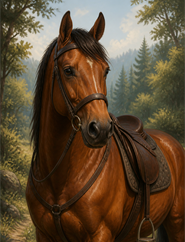
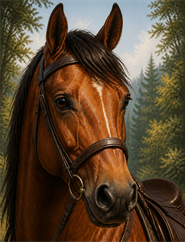
feat: finish Phase 3D horse presentation

diff --git a/tests/MountedRiderPoseTests.cs b/tests/MountedRiderPoseTests.cs
@@ -253,7 +253,7 @@ namespace KingmakerMountedCombat.Tests
             var profile = MountedRiderPoseProfiles.MediumHumanoidOnHorse;
             TestRunner.Equal(null, profile.Validate(), "Horse pose profile is invalid.");
             TestRunner.Equal("medium-humanoid-horse-v1", profile.Id, "Horse profile identity changed.");
-            TestRunner.Equal(-0.17f, profile.PelvisPositionOffset.Y, "Horse pelvis calibration changed.");
+            TestRunner.Equal(-0.29f, profile.PelvisPositionOffset.Y, "Horse final Phase 3D pelvis calibration changed.");
             TestRunner.Equal(-0.15f, profile.LeftLeg.FootTargetFromThigh.X, "Horse left thigh-relative stirrup target changed.");
             TestRunner.Equal(0.15f, profile.RightLeg.FootTargetFromThigh.X, "Horse right thigh-relative stirrup target changed.");
             TestRunner.Equal(-0.62f, profile.LeftLeg.FootTargetFromThigh.Y, "Horse left foot height target changed.");
@@ -268,6 +268,12 @@ namespace KingmakerMountedCombat.Tests
                 profile.LeftLeg.FootTargetFromThigh.Z != MountedRiderPoseProfiles.MediumHumanoidOnMammoth.LeftLeg.FootTargetFromThigh.Z &&
                 profile.LeftLeg.KneeHintFromThigh.Z != MountedRiderPoseProfiles.MediumHumanoidOnMammoth.LeftLeg.KneeHintFromThigh.Z,
                 "Horse pose reused Mammoth longitudinal leg values.");
+            var mammoth = MountedRiderPoseProfiles.MediumHumanoidOnMammoth;
+            TestRunner.Equal(0.04f, mammoth.PelvisPositionOffset.Y, "Horse calibration mutated the accepted Mammoth pelvis height.");
+            TestRunner.Equal(-0.50f, mammoth.LeftLeg.FootTargetFromThigh.Y, "Horse calibration mutated the accepted Mammoth left foot target.");
+            TestRunner.Equal(-0.50f, mammoth.RightLeg.FootTargetFromThigh.Y, "Horse calibration mutated the accepted Mammoth right foot target.");
+            TestRunner.Equal(-0.08f, mammoth.LeftLeg.KneeHintFromThigh.Y, "Horse calibration mutated the accepted Mammoth left knee target.");
+            TestRunner.Equal(-0.08f, mammoth.RightLeg.KneeHintFromThigh.Y, "Horse calibration mutated the accepted Mammoth right knee target.");
         }
 
         private static void ProfileRejectsDuplicateBones()

diff --git a/src/KingmakerMountedCombat/Integration/NativeMountedControlService.cs b/src/KingmakerMountedCombat/Integration/NativeMountedControlService.cs
@@ -571,10 +571,15 @@ namespace KingmakerMountedCombat.Integration
                 AssertGuidAbsent(library, guid);
             }
 
-            var icon = horseCompanion.HorseFeature.Icon;
-            if (icon == null)
+            var horseIcon = horseCompanion.HorseFeature.Icon;
+            var saddleIcon = horseCompanion.MountSaddleIcon;
+            if (horseIcon == null)
             {
                 throw new InvalidOperationException("The exact Horse feature has no icon for native controls.");
+            }
+            if (saddleIcon == null)
+            {
+                throw new InvalidOperationException("The original KMC saddle icon is unavailable for Mount/Dismount controls.");
             }
 
             mountAbility = CreateAbility(
@@ -588,7 +593,7 @@ namespace KingmakerMountedCombat.Integration
                 true,
                 false,
                 UnitCommand.CommandType.Move,
-                icon);
+                saddleIcon);
             dismountAbility = CreateAbility(
                 "KMC_DismountAbility",
                 DismountAbilityGuid,
@@ -600,7 +605,7 @@ namespace KingmakerMountedCombat.Integration
                 false,
                 true,
                 UnitCommand.CommandType.Move,
-                icon);
+                saddleIcon);
             riderPrimaryAbility = CreateAbility(
                 "KMC_RiderPrimaryAbility",
                 RiderPrimaryAbilityGuid,
@@ -612,7 +617,7 @@ namespace KingmakerMountedCombat.Integration
                 false,
                 false,
                 UnitCommand.CommandType.Free,
-                icon);
+                horseIcon);
             mountPrimaryAbility = CreateAbility(
                 "KMC_MountPrimaryAbility",
                 MountPrimaryAbilityGuid,
@@ -624,7 +629,7 @@ namespace KingmakerMountedCombat.Integration
                 false,
                 false,
                 UnitCommand.CommandType.Free,
-                icon);
+                horseIcon);
 
             foreach (var ability in EnumerateBlueprints())
             {

diff --git a/src/KingmakerMountedCombat/Domain/MountedRiderPoseProfile.cs b/src/KingmakerMountedCombat/Domain/MountedRiderPoseProfile.cs
@@ -156,7 +156,14 @@ namespace KingmakerMountedCombat.Domain
         // target is a delta from each thigh rather than an absolute Chest-local
         // coordinate. The narrower lateral deltas therefore account for the
         // rider's existing hip span instead of adding that span to the stirrup
-        // span. The pelvis is lowered 0.14 from the human-reviewed dev.23 value.
+        // span. Phase 3C Candidate C was lowered 0.14 from the human-reviewed
+        // dev.23 value but still showed a visible saddle gap. Phase 3D bounded
+        // the final vertical-only comparison to -0.25, -0.27, and -0.29 in this
+        // exact pelvis-local coordinate space (current minus 0.08/0.10/0.12).
+        // The -0.29 candidate deliberately favors saddle contact over the
+        // Phase 3C suspended silhouette. The complete rider leg chain follows
+        // the pelvis translation, so the already stable Horse-only stirrup,
+        // knee, bend, and longitudinal targets remain unchanged.
         // Candidate A proved stable but left the feet 0.557/0.598 world units
         // above and behind the assigned native stirrups. Candidate B was stable
         // and materially improved the human silhouette but remained slightly
@@ -167,7 +174,7 @@ namespace KingmakerMountedCombat.Domain
         public static readonly MountedRiderPoseProfile MediumHumanoidOnHorse = new MountedRiderPoseProfile(
             "medium-humanoid-horse-v1",
             "Pelvis",
-            new PoseVector3(0f, -0.17f, -0.02f),
+            new PoseVector3(0f, -0.29f, -0.02f),
             new PoseVector3(5f, 0f, 0f),
             new MountedRiderLegPoseProfile(
                 "L_Up_leg",

diff --git a/src/KingmakerMountedCombat/Integration/HorseCompanionBlueprintService.cs b/src/KingmakerMountedCombat/Integration/HorseCompanionBlueprintService.cs
@@ -111,6 +111,7 @@ namespace KingmakerMountedCombat.Integration
         private bool selectionDesired;
         private BlueprintPortrait horsePortrait;
         private Sprite horseIcon;
+        private Sprite mountSaddleIcon;
         private BlueprintUnit horseUnit;
         private BlueprintFeature horseFeature;
         private BlueprintFeature horseUpgrade;
@@ -144,6 +145,8 @@ namespace KingmakerMountedCombat.Integration
         public BlueprintPortrait HorsePortrait => horsePortrait;
 
         public Sprite HorseIcon => horseIcon;
+
+        public Sprite MountSaddleIcon => mountSaddleIcon;
 
         public BlueprintFeature HorseFeature => horseFeature;
 
@@ -386,6 +389,9 @@ namespace KingmakerMountedCombat.Integration
             horseIcon = CreateEmbeddedSprite(
                 "KingmakerMountedCombat.Assets.HorseIcon.png",
                 "KMC_Horse_Icon");
+            mountSaddleIcon = CreateEmbeddedSprite(
+                "KingmakerMountedCombat.Assets.MountSaddleIcon.png",
+                "KMC_Mount_Saddle_Icon");
 
             horseUpgrade = CreateOwned<BlueprintFeature>("AnimalCompanionUpgradeHorse");
             horseUpgrade.AssetGuid = UpgradeGuid;
@@ -861,6 +867,7 @@ namespace KingmakerMountedCombat.Integration
             horseUnit = null;
             horsePortrait = null;
             horseIcon = null;
+            mountSaddleIcon = null;
             horseFeature = null;
             horseUpgrade = null;
             rangerSelection = null;

diff --git a/MOUNTED-COMBAT-JOURNAL.md b/MOUNTED-COMBAT-JOURNAL.md
@@ -1,5 +1,17 @@
 # Mounted Combat journal
 
+## 2026-08-30T21:21:46Z - Phase 3D presentation tranche is offline-green
+
+- Branch/HEAD before checkpoint: `codex/mounted-combat-phase3d-unified-combat` / `9bf83d21b5367e057130b41bf7379512a638c025`; this original-art/presentation tranche and record are uncommitted. Phase 3C assets, package, branch, and evidence remain immutable.
+- Exact read-only installed-data audit found zero standalone `saddle`/`tack` filenames and zero such terms across every Kingmaker bundle manifest. No stable native resource path/GUID/owner could be established, so KMC selected the authorized original-art fallback without extracting a proprietary texture.
[2 lines of base64/hex data omitted]
+- The one final Horse-only vertical cycle bounded pelvis-local candidates to `-0.25`, `-0.27`, and `-0.29` from Phase 3C `-0.17`. Selected `-0.29` is the requested substantive `-0.12` lowering at the rider Pelvis under the exact Chest/root attachment. Horse lateral/longitudinal leg targets, anchor, rotation, scale, and animation remain unchanged. Mammoth values are unchanged and explicitly component-locked.
[1 lines of base64/hex data omitted]
+- One harness attempt failed solely because the new source assertion referenced an uninitialized local test variable. The assertion was bound inside the correct test scope and the complete harness rerun passed `236/0`; no production repair or acceptance threshold changed.
+- Rejected claims: bitmap inspection and offline pose constants do not prove in-game bar/tracker legibility, saddle contact, clipping, gait stability, or Mammoth behavior. Those remain runtime/manual gates.
+- External state: no Kingmaker/Wrath launch, save access, live Mods staging, installed-package change, runtime transaction, or remote publication. Exact next action is the strict Phase 3D runtime artifact/schema/engine plus grouped RT/TB/presentation/Mammoth scenarios.
+
 ## 2026-08-30T20:46:46Z - Phase 3D unified combat primary implementation is offline-green
 
 - Branch/HEAD before checkpoint: `codex/mounted-combat-phase3d-unified-combat` / `2d7fa364b3e9418c7069bd6e251d15e006444ecf`; implementation and this record are uncommitted. Phase 3C historical refs/artifacts remain immutable.

diff --git a/planning/MOUNT-ICON-ASSET-AUDIT.md b/planning/MOUNT-ICON-ASSET-AUDIT.md
@@ -1,0 +1,31 @@
+# Mount icon asset audit
+
+Status: `PASS (original fallback selected) - RUNTIME/UI HUMAN REVIEW REQUIRED`
+
+Date: 2026-08-30
+
+## Native Kingmaker audit
+
+The exact installed Kingmaker data remains a read-only evidence source. Before creating replacement art, two bounded discoverability scans were run against `Kingmaker_Data/StreamingAssets/Bundles`:
+
+1. a filename/path scan for standalone `saddle` or `tack` terms;
+2. a manifest-text scan for the same terms across every `*.manifest` file.
+
+Both scans returned zero matches. The earlier initialized-library Horse asset audit inspected 104,667 blueprint objects and likewise recorded no suitable native Horse/Pony portrait or Horse-identity icon set. That earlier artifact did not claim an exhaustive saddle search, so Phase 3D will add a runtime blueprint/icon-name projection before final qualification. The zero manifest/path result is nevertheless dispositive for the immediate asset choice: no native saddle/tack icon has a discoverable resource path, blueprint owner, or stable GUID that KMC can reference safely. An opaque or unrelated icon is not accepted by resemblance alone, and no proprietary texture is extracted or redistributed.
+
+## Disposition
+
+KMC uses original saddle artwork. The Mount and Dismount abilities use the saddle icon; the Horse companion feature and Rider/Horse primary controls retain the accepted Horse identity icon. This keeps action semantics distinct from companion identity.
+
+The saddle artwork was generated from text only with OpenAI ImageGen for this project. No Kingmaker, Wrath, YouTube, screenshot, logo, or third-party image was supplied as an image reference. The source prompt was:
+
+> Create a brand-new original square bitmap asset for the Kingmaker Mounted Combat mod: a medieval riding saddle and tack ability icon, viewed in clear three-quarter profile. Center one compact dark oxblood-brown leather saddle with a high pommel and cantle, one visible brass stirrup hanging below, short leather straps, and a small folded saddle blanket in muted deep red. Painterly late-medieval fantasy CRPG inventory-icon style, warm amber rim light, rich brown leather, aged brass, strong readable silhouette, crisp focal edges, restrained texture, dramatic but uncluttered dark umber vignette background. Designed to remain instantly recognizable at 48–64 pixels. No horse, no horse head, no rider, no human, no text, no letters, no logo, no watermark, no decorative UI frame, no copied game icon, no photorealism. Square 1:1 composition with generous breathing room around the saddle.
+
+## Project-owned files
+
+| File | Role | Dimensions | SHA-256 |
+|---|---|---:|---|
[2 lines of base64/hex data omitted]
+
+The 128x128 derivative is a high-quality bicubic reduction of the committed source. Both are original KMC-distributed assets; they contain no extracted proprietary pixels. Final ability-bar legibility remains a focused human gate.

diff --git a/AUTONOMOUS-RESUME.md b/AUTONOMOUS-RESUME.md
@@ -1,5 +1,17 @@
 # Autonomous resume
 
+## Phase 3D original art and final Horse seat calibration offline-green - 2026-08-30T21:21:46Z
+
+- Branch is `codex/mounted-combat-phase3d-unified-combat`; current committed implementation checkpoint is `9bf83d21b5367e057130b41bf7379512a638c025`, with this presentation tranche and records intentionally uncommitted until the coherent checkpoint below. Phase 3C historical refs/artifacts are untouched.
+- The exact installed bundle filename/manifest scan found no discoverable saddle/tack resource, so the original-art fallback is selected. `planning/MOUNT-ICON-ASSET-AUDIT.md` records the text-only ImageGen prompt, rights boundary, dimensions, and hashes. `MountSaddleIcon.png` is embedded separately and used only by Mount/Dismount; Horse identity/primary surfaces keep `HorseIcon.png`.
[1 lines of base64/hex data omitted]
+- The final Horse-only vertical cycle compared pelvis-local `Y=-0.25/-0.27/-0.29` against the Phase 3C human screenshot and exact Chest/stirrup coordinate contract. `Y=-0.29` is selected for fresh runtime/manual review. Foot/knee deltas, anchor, rotation, scale, Horse animation, and every Mammoth constant remain unchanged; tests lock the accepted Mammoth values.
[1 lines of base64/hex data omitted]
+- One intermediate harness failure was test-scope-only: the new icon segregation assertion referenced a variable initialized in a different harness closure. Binding the read inside the correct closure restored full `236/0`; production code did not change for that repair.
+- No game, save, live Mods tree, installed package, runtime transaction, or remote ref changed. Exact next action: commit this presentation checkpoint, then implement strict Phase 3D runtime schemas/validators/scenario engine before creating any gameplay package or claiming runtime credit.
+
+Status remains `IN PROGRESS`; icon/portrait/pose runtime and human gates are open.
+
 ## Phase 3D unified-combat primary implementation offline-green - 2026-08-30T20:46:46Z
 
 - Branch is `codex/mounted-combat-phase3d-unified-combat`; current committed contract checkpoint is `2d7fa364b3e9418c7069bd6e251d15e006444ecf`, with the reviewed primary implementation and tests intentionally uncommitted until this record/checkpoint. Phase 3C refs and accepted package remain untouched.

diff --git a/planning/HORSE-MOVEMENT-AND-ANIMATION-CONTRACT.md b/planning/HORSE-MOVEMENT-AND-ANIMATION-CONTRACT.md
@@ -44,3 +44,19 @@ The live Horse blueprint remains 50 feet and the exact agent maximum remains `5.
 Exact Horse Bite `35dfad6517f401145af54111be04d6cf` remains `AdditionalLimb[0]`. The final adapter follows the refreshed stock-created handle, validates exact Horse manager/action-set membership, and records `HorseAnimationSet_Bite` / `SpecialAttack`. TB and RT each produced one successful Horse-owned command and one attack/roll/damage chain. The handle acted, finished, and was not interrupted; create/adopt/reject totals after both actions were `0/2/0`. Visual readability remains a human gate.
 
 Candidate C is final for this bounded cycle: pelvis `(0,-0.17,-0.02)`, feet `(+/-0.15,-0.62,0.11)`, knees `(+/-0.16,-0.16,0.16)`. Left/right stirrup distances are `0.39243558` / `0.4600763`; clamps are zero; maximum foot/knee/segment residuals remain at microunit scale; maximum/average cost is `19.0` / `13.9` microseconds. Mammoth values, Horse scale/assets, and every other rider category are unchanged.
+
+## Phase 3D final seat-lowering cycle - 2026-08-30
+
+The Phase 3C human screenshot supersedes the earlier visual disposition: Candidate C is mechanically stable but the pelvis remains visibly suspended above the stock saddle. Phase 3D therefore authorizes exactly one final Horse-only vertical cycle. The coordinate seam is the rider `Pelvis.localPosition` inside the rider root leased at the native Horse `Chest`; the exact `L_Stirrup` and `R_Stirrup` remain authored children of that Chest at approximately `(+/-0.305183,-0.12273,-0.04402)`. This is not a blind mount-root translation.
+
+The bounded candidates are:
+
+| Candidate | Pelvis local offset | Delta from Phase 3C | Disposition |
+|---|---:|---:|---|
+| Phase3D-A | `(0,-0.25,-0.02)` | `-0.08 Y` | evidence boundary |
+| Phase3D-B | `(0,-0.27,-0.02)` | `-0.10 Y` | intermediate |
+| Phase3D-C | `(0,-0.29,-0.02)` | `-0.12 Y` | selected for runtime/manual review |
+
+Phase3D-C is selected because the authoritative screenshot shows material suspension and the user explicitly prioritizes seat contact over a small amount of clipping. The procedural pose applies the pelvis translation before resolving both thigh-root-relative leg chains, so the rider body and existing stable Horse-only foot/knee targets descend together. Lateral, longitudinal, bend, rotation, Horse scale, source anchor, and native animation values remain unchanged.
+
+The accepted Mammoth constants remain exactly pelvis `(0,0.04,-0.05)`, feet `(+/-0.32,-0.50,0.10)`, and knees `(+/-0.42,-0.08,0.42)`; component tests lock those values. Runtime idle/walk/run/turn/stop/reverse, clipping, jitter, stirrup distance, and Mammoth behavior still require fresh evidence. No additional pose candidate cycle is authorized after this one.

diff --git a/planning/HORSE-PORTRAIT-ASSET-AUDIT.md b/planning/HORSE-PORTRAIT-ASSET-AUDIT.md
@@ -47,3 +47,20 @@ KMC therefore uses an original project-owned, redistributable portrait set. It w
[1 lines of base64/hex data omitted]
 
 Registration and UX evidence prove exact KMC Horse portrait/icon identities and no Mammoth reference on Horse-specific surfaces. Human review remains responsible for composition, readability, and aesthetic acceptance.
+
+## Phase 3D small/party close-up - 2026-08-30
+
+Human Phase 3C review accepted the original Horse artwork but requested a tighter small/party crop. The large and medium portraits and `HorsePortraitOriginalMaster.png` remain byte-identical to the accepted Phase 3C set. Only the small surface changes.
+
+OpenAI ImageGen edited only the project-owned `HorsePortraitOriginalMaster.png`; no Kingmaker, Wrath, YouTube, or human-review screenshot was used as an image reference. The edit prompt required the same chestnut Horse identity, blaze, bridle, painterly treatment, light, and forest while reframing ears, face, eyes, muzzle, and upper neck for 48–64 pixel readability. It prohibited new tack, riders, text, logos, borders, and new objects. The generated close-up master was center-cropped to the exact native small-portrait aspect and reduced with high-quality bicubic sampling.
+
+| File | Dimensions | SHA-256 | Phase 3D disposition |
+|---|---:|---|---|
[6 lines of base64/hex data omitted]
+
+The close-up is an original KMC-distributed derivative of KMC's original source. Runtime party/tracker rendering and final aesthetic judgment remain focused human gates.

diff --git a/planning/PHASE3D-RUNTIME-SCENARIO-MATRIX.md b/planning/PHASE3D-RUNTIME-SCENARIO-MATRIX.md
@@ -82,12 +82,12 @@ Each mounted row records actual `ClickUnitHandler` admission, exact stock comman
 | Scenario | Required proof | Status |
 |---|---|---|
 | mounted-single-rider-turn-portrait | one rider tracker portrait, rider selection/action bar/camera | TODO |
-| Horse-small-portrait-close-up | original KMC art crop readable at party/tracker size | TODO |
-| saddle-icon | native safe reference or original KMC-owned saddle art; no Wrath asset | TODO |
+| Horse-small-portrait-close-up | original KMC art crop readable at party/tracker size | IN PROGRESS - original close-up integrated; runtime rendering/human legibility pending |
+| saddle-icon | native safe reference or original KMC-owned saddle art; no Wrath asset | IN PROGRESS - native path/manifest scan found no safe reference; original KMC saddle integrated; runtime rendering/human legibility pending |
 | mount-ability-in-combat | visible, eligible, one rider Move cost | TODO |
 | dismount-ability-in-combat | visible, one rider Move cost, no extra turn | TODO |
-| Horse-pose-final-idle-walk-run-turn-stop | final one-cycle lower-seat acceptance | TODO |
-| Horse-pose-Mammoth-unchanged | Mammoth profile bytes and behavior unchanged | TODO |
+| Horse-pose-final-idle-walk-run-turn-stop | final one-cycle lower-seat acceptance | IN PROGRESS - Phase3D-C `Y=-0.29` selected; fresh runtime/manual evidence pending |
+| Horse-pose-Mammoth-unchanged | Mammoth profile bytes and behavior unchanged | IN PROGRESS - source constants and component locks unchanged; focused runtime regression pending |
 | Horse creation/lifecycle/save reload | previously qualified behavior remains exact | TODO |
 | door approach/open/traverse | pair interaction remains exact | TODO |
 | Wild Shape and save/area cleanup | clean dismount | TODO |

diff --git a/AUTONOMOUS-BLOCKERS.md b/AUTONOMOUS-BLOCKERS.md
@@ -1,5 +1,15 @@
 # Autonomous blockers
 
+## Phase 3D presentation is offline-green; runtime/manual proof remains open - 2026-08-30T21:21:46Z
+
+Status: `IN PROGRESS`.
+
+No current hard blocker is proven. The original saddle icon and close-up small Horse portrait are integrated with exact provenance and independent resource ownership. The final Horse pelvis candidate is a substantive `-0.12` local-unit reduction from Phase 3C, while every Mammoth profile constant remains unchanged. All applicable offline gates pass.
+
+The unresolved presentation risk is exclusively fresh in-game evidence: ability-bar icon legibility, party/tracker crop readability, actual pelvis-to-saddle contact, torso/weapon/shield/leg clipping, locomotion/turn/stop/reverse stability, and focused Mammoth behavior. The selected `Y=-0.29` intentionally accepts limited clipping before obvious suspension, but offline source cannot determine that visual judgment.
+
+The principal mission risk remains the unified runtime control model listed below. Exact next action is to commit this checkpoint and implement grouped strict Phase 3D RT/TB/presentation/Mammoth protocol evidence. If the first runtime presentation pass shows severe clipping, the authorized final calibration cycle is exhausted; preserve the result and place the visual decision in the manual gate rather than starting another unbounded pose loop.
+
 ## Phase 3D primary implementation offline-green; runtime proof remains open - 2026-08-30T20:46:46Z
 
 Status: `IN PROGRESS`.
